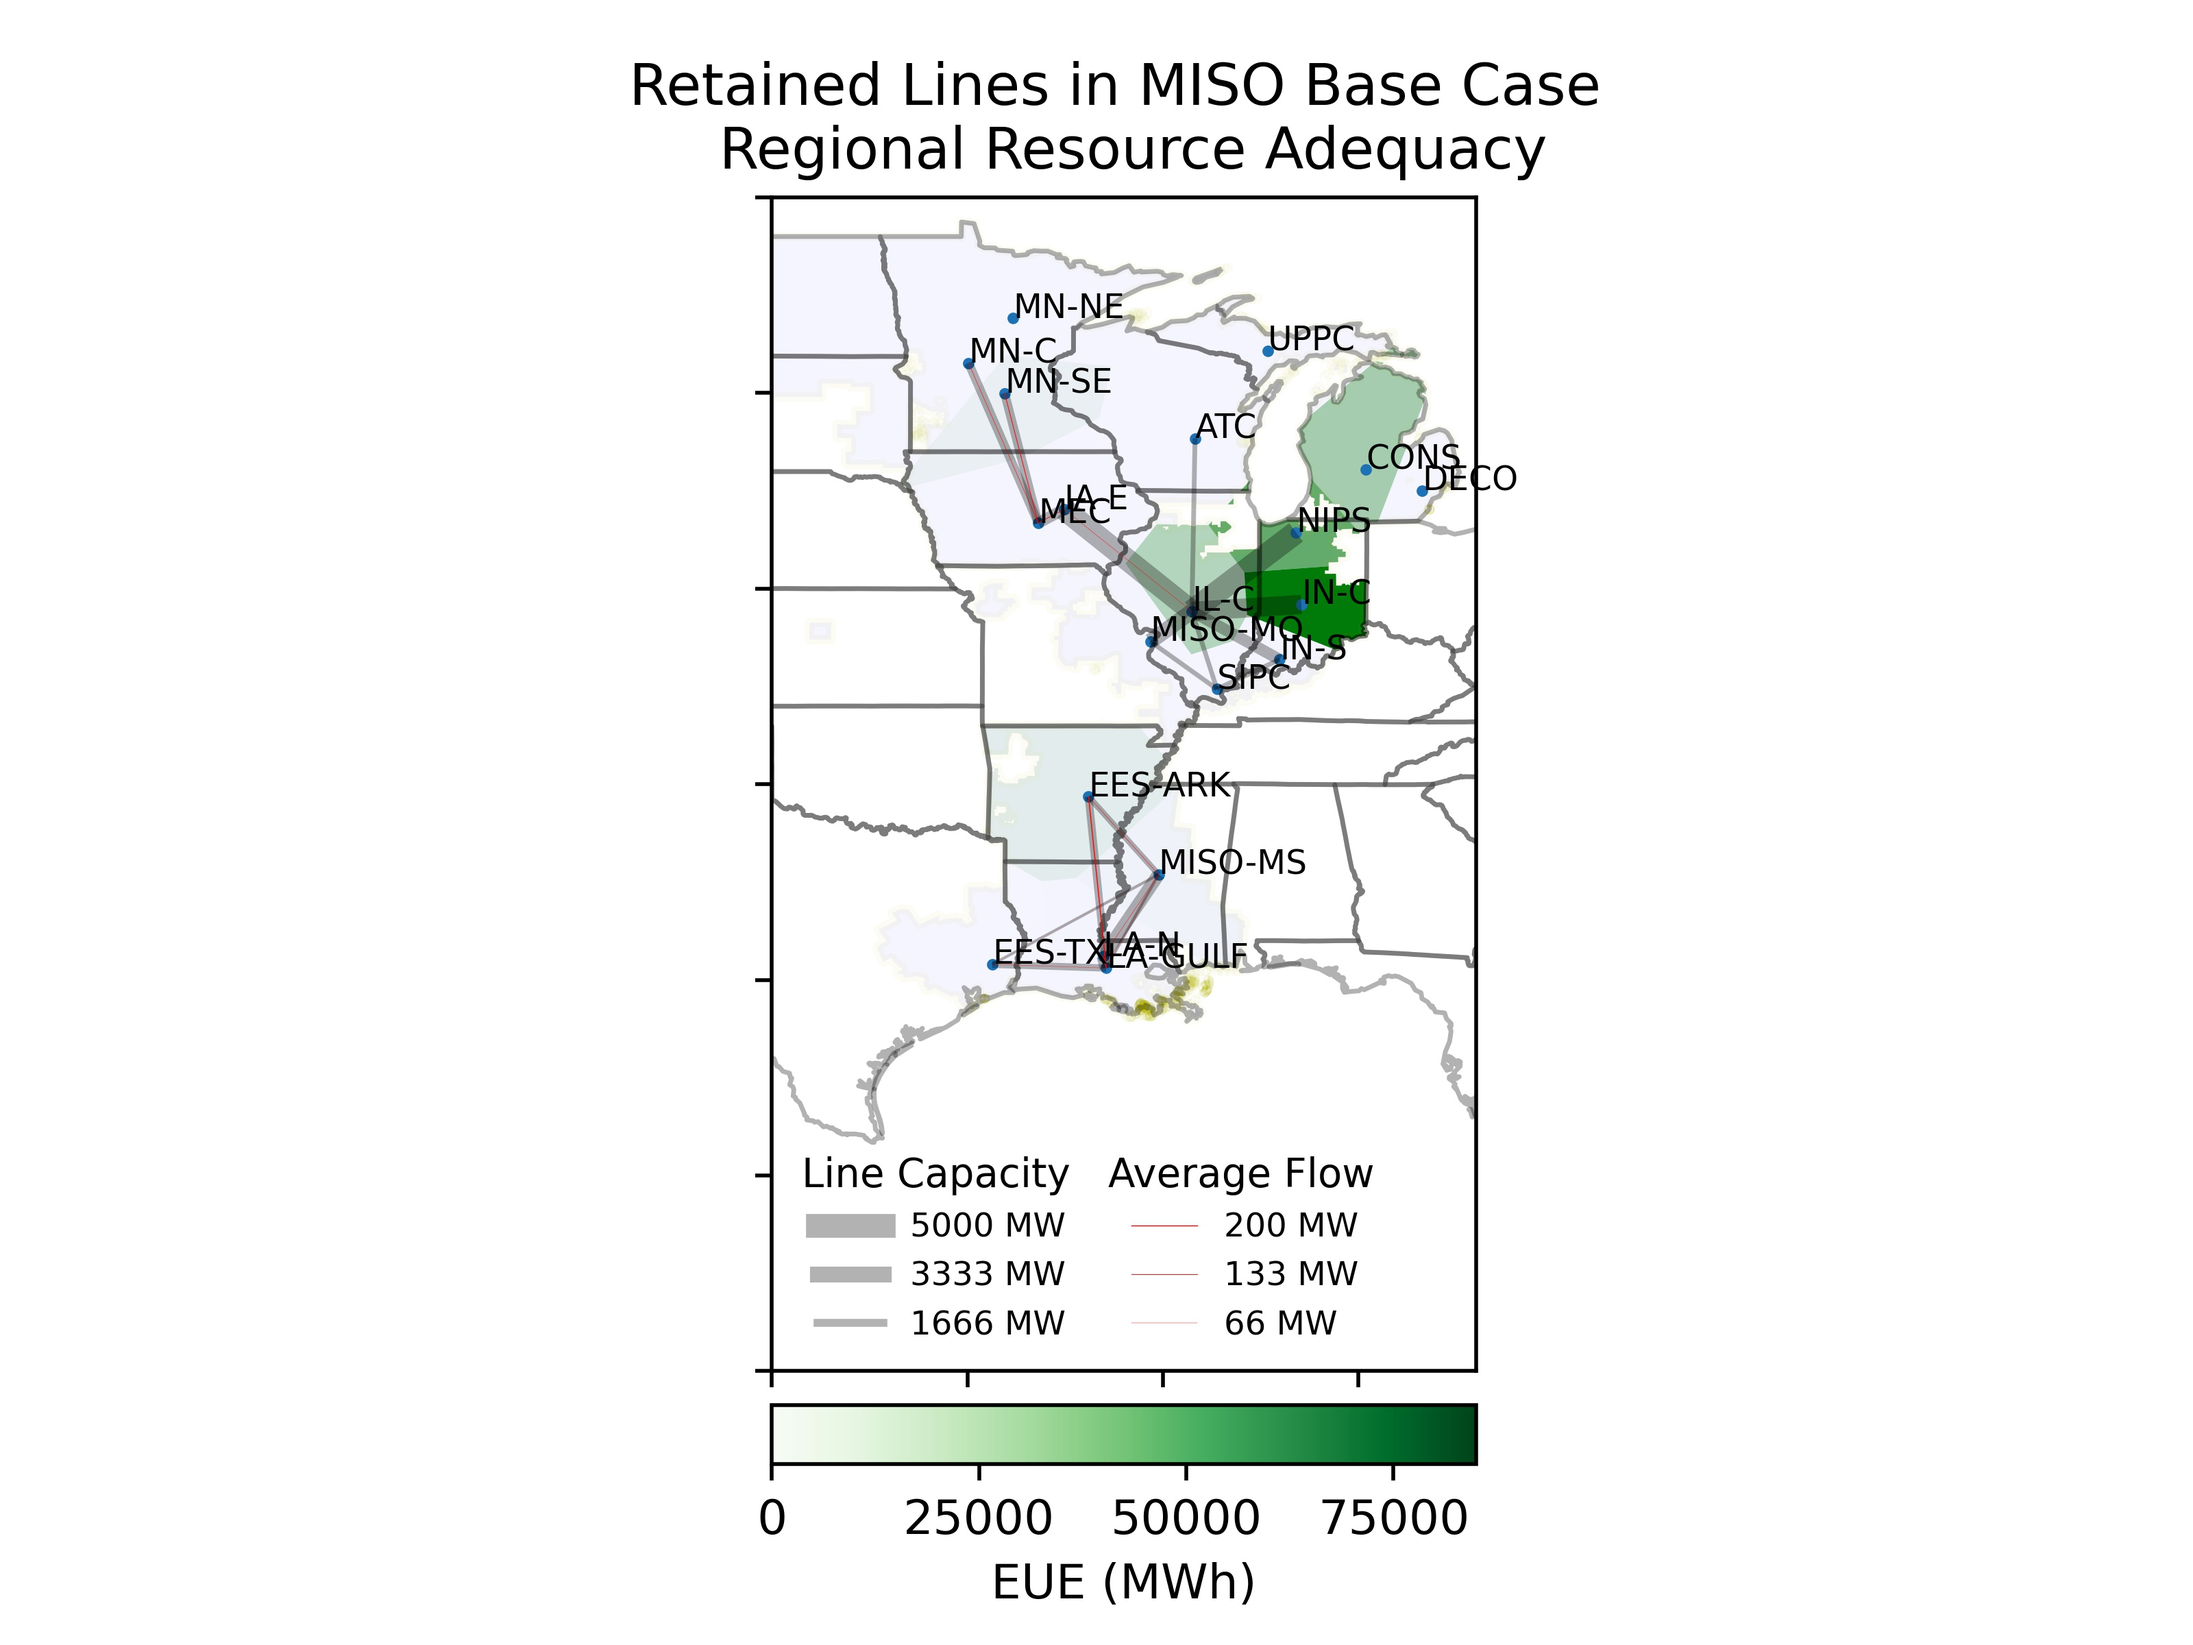
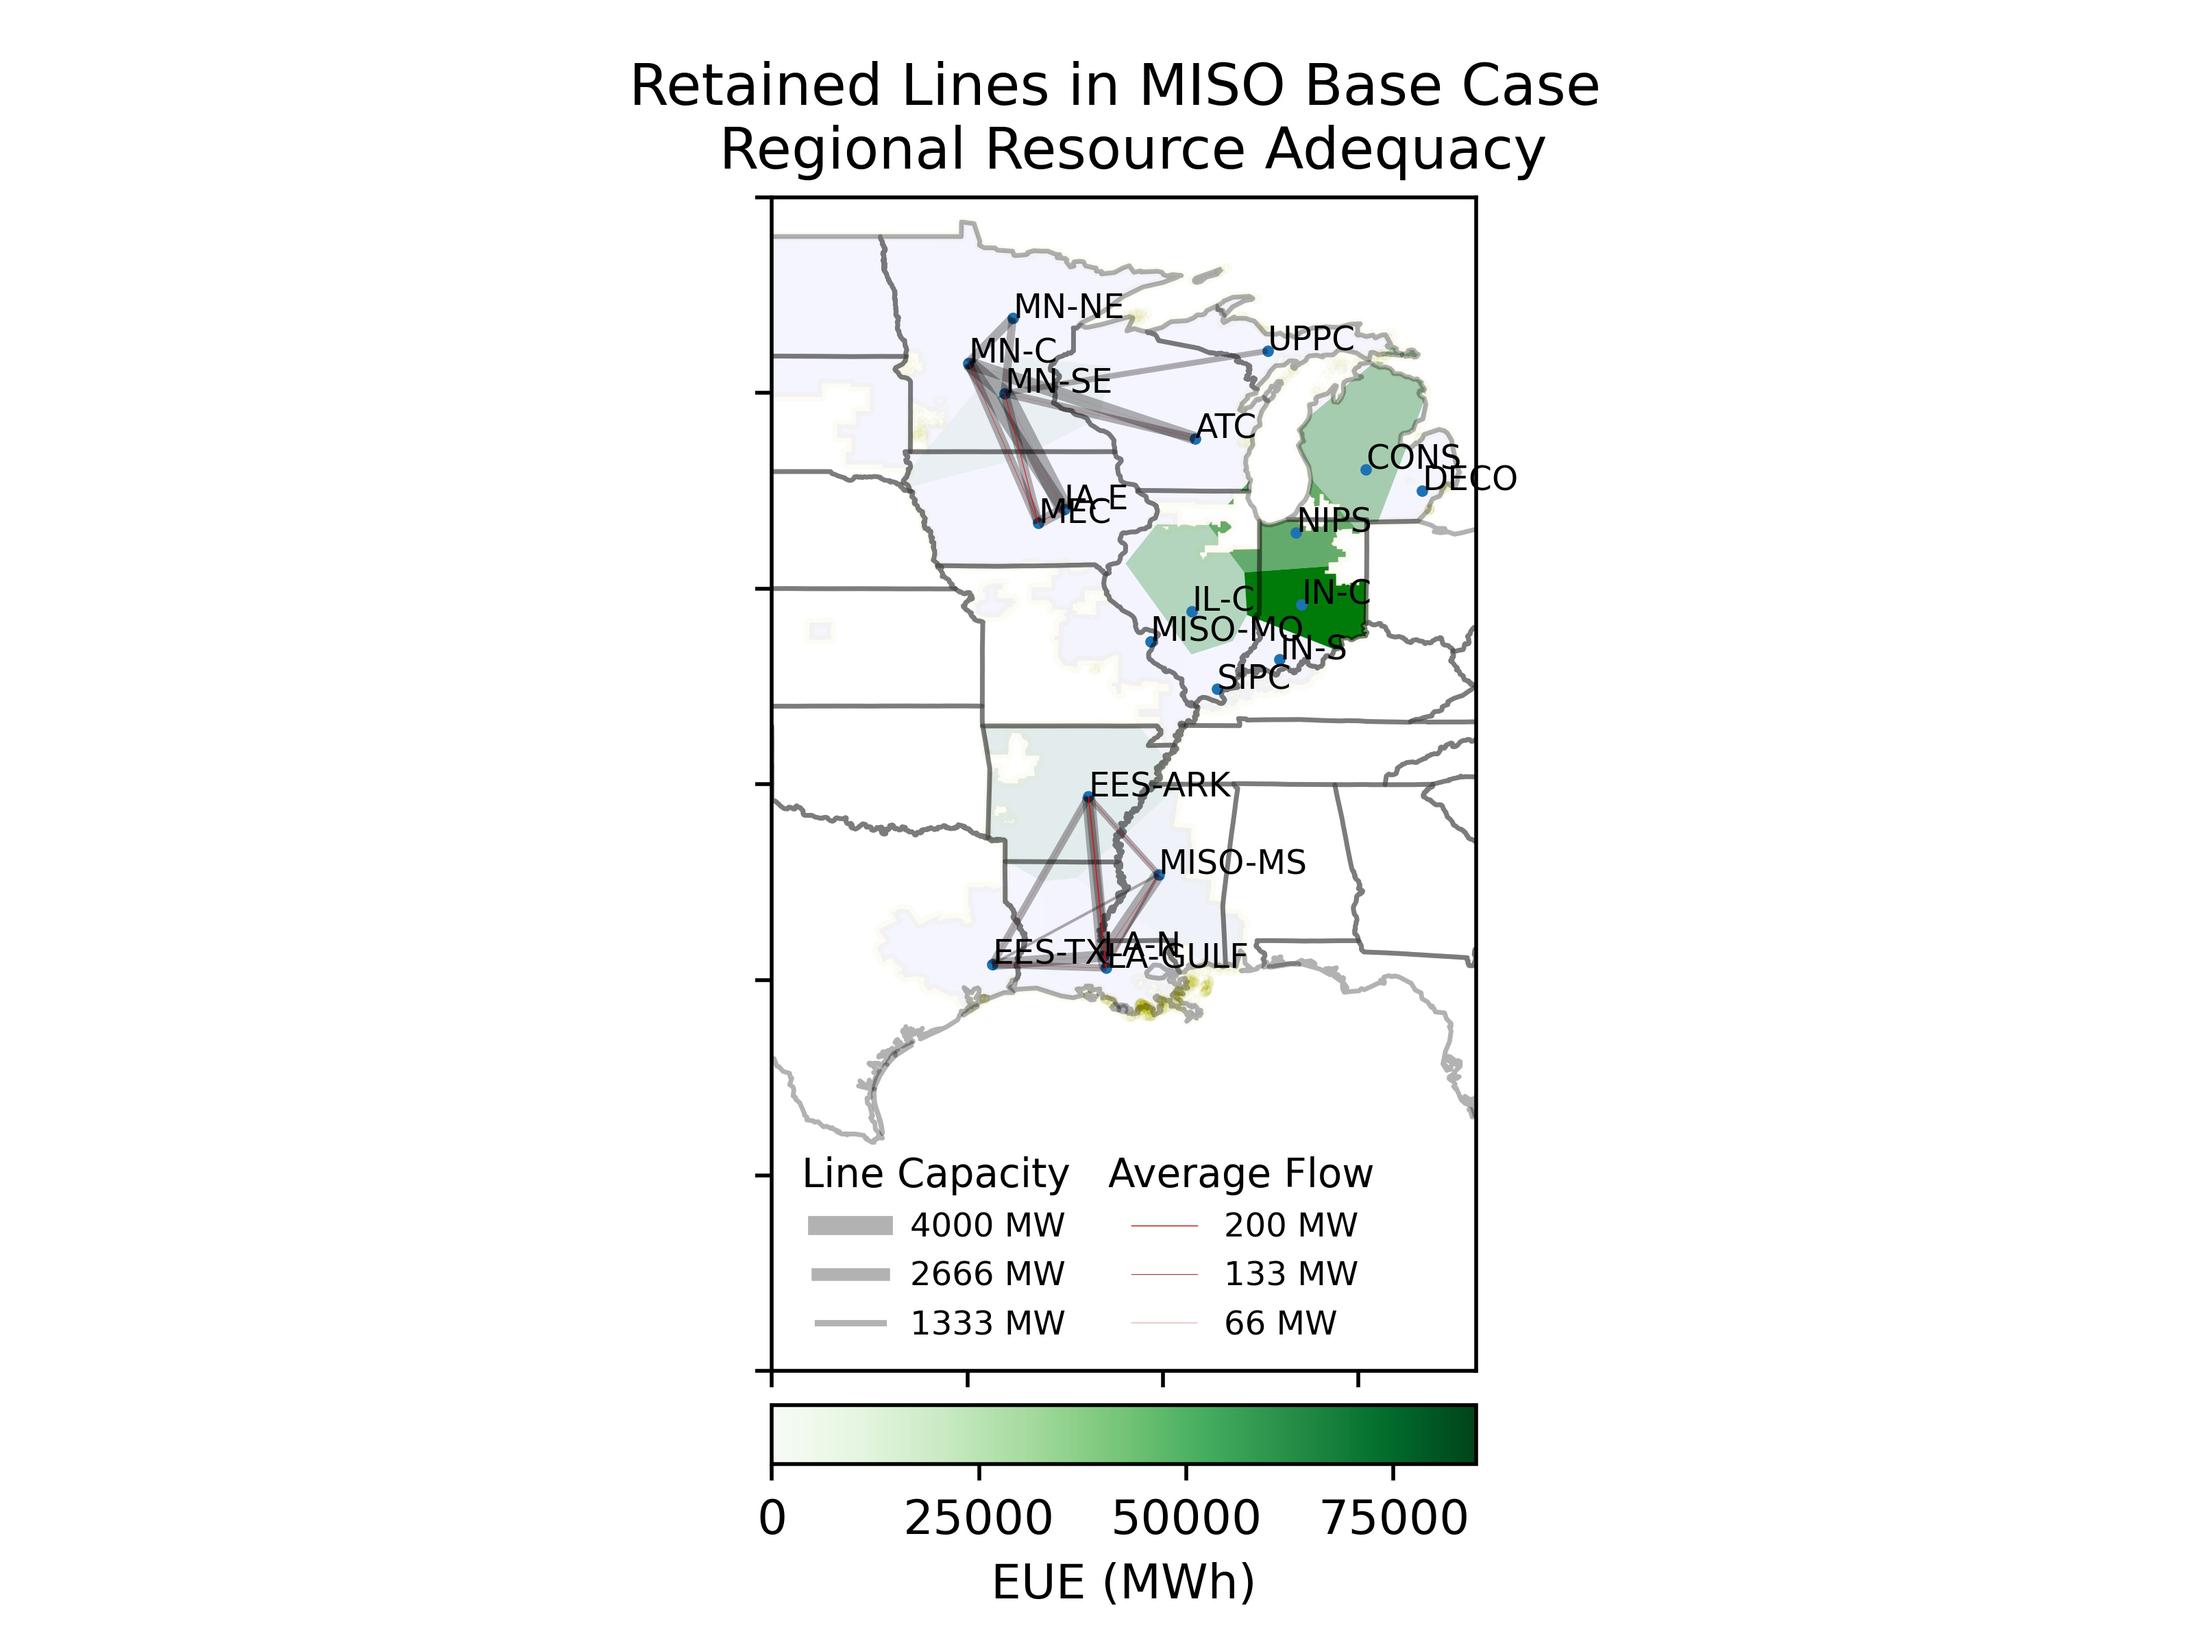
editpostprocessscript

diff --git a/results/post_processing_figures.py b/results/post_processing_figures.py
@@ -97,10 +97,12 @@ class plotter(object):
         #print(busID)
         del self.miso_loads[zone]
         self.miso_map.drop(idx,inplace=True)
+        self.miso_map.reset_index(inplace=True)
         self.miso_tx.drop(self.miso_tx[self.miso_tx['From']==float(busID)].index,inplace=True)
         self.miso_tx.drop(self.miso_tx[self.miso_tx['To']==float(busID)].index,inplace=True)
         self.miso_tx.reset_index(inplace=True)
         self.miso_bus_zone.drop(self.miso_bus_zone[self.miso_bus_zone['Seams Region']==zone].index,inplace=True)
+        self.miso_bus_zone.reset_index(inplace=True)
         return None
 
     def format_data(self):
@@ -374,12 +376,17 @@ class plotter(object):
             right_on="names",
         )
         self.gdf_merge = gdf_merge
+
+        #gdf_proj must be re-ordered
+        print(self.gdf_merge)
+        print(gdf_proj)
+
         line_gdf = self.create_lines(line_attribute, month=months, hour=hours)
         labs = list(gdf_merge["Seams_Region"])
         attribute_max = gdf_merge[attribute].max()
         boundary.geometry = boundary.geometry.buffer(0)
         boundary_shape = cascaded_union(boundary.geometry)
-        coords = points_to_coords(gdf_proj.geometry)
+        coords = points_to_coords(gdf_merge.geometry)
         poly_shapes, pts,poly_to_pt_assignments = voronoi_regions_from_coords(
             coords, boundary_shape
         )
@@ -415,9 +422,9 @@ class plotter(object):
             plot_points(
                 myaxes, pts, 2, labels=labs, alpha=0.0, label_fontsize=16
             )  # mostly just adds the zonal labels
+        
         elif plot_type == "fills":
             for i, s in enumerate(poly_shapes):
-                #print(i,s)
                 plot_voronoi_polys(
                     myaxes,
                     s,
@@ -442,20 +449,27 @@ class plotter(object):
             )  # mostly just adds the zonal labels
         else:
             raise ValueError("plot_type must be either fills or bubbles")
-
+        
+        #decide which zones to exclude
+        mymax = max(gdf_merge.EUE)*.01
+        myindices = list(gdf_merge[gdf_merge['EUE']>=mymax].index)
+        zone_names = list(gdf_merge.names[gdf_merge.index.isin(myindices)])
+        #print(gdf_merge.names)
         # subset line gdf, if desired, to get rid of lines without flows
+        #["AECIZ", "LA-GULF", "MEC", "SIPC", "IL-C", "MISO-MS"]
+        print(zone_names)
         if subset_lines:
             fromindices = list(
                 line_gdf.index[
                     line_gdf.from_name.isin(
-                        ["AECIZ", "LA-GULF", "MEC", "SIPC", "IL-C", "MISO-MS"]
+                    zone_names
                     )
                 ]
             )
             toindices = list(
                 line_gdf.index[
                     line_gdf.to_name.isin(
-                        ["AECIZ", "LA-GULF", "MEC", "SIPC", "IL-C", "MISO-MS"]
+                        zone_names
                     )
                 ]
             )
@@ -909,8 +923,8 @@ class plotter(object):
             [str(int(cap_1)) + " MW", str(int(cap_2)) + " MW", str(int(cap_3)) + " MW"],
             loc="lower left",
             title="Line Capacity",
-            fontsize="large",
-            title_fontsize="large",
+            fontsize="medium",
+            title_fontsize="medium",
             frameon=False,
             ncol=2,
         )

diff --git a/MISO_data_main.py b/MISO_data_main.py
@@ -40,12 +40,12 @@ re_penetration = "0.4"
 profile_year = 2012
 NREL = False
 NREL_year, NREL_profile = 2040, "EFSLoadProfile_Reference_Moderate"
-pras_filename = "VRE0.4_wind_2012base100%_8760_25%tx_18%IRM_0GWstorage_addgulfsolar"
+pras_filename = "VRE0.4_wind_2012base100%_8760_150%tx_18%IRM_0GWstorage_addgulfsolar"
 load_scalar = 1  # how much to scale resulting load profile by... 1 should be default
 target_IRM = 0.18  # as a fraction
 use_target_IRM = True  #
 storage_capacity = 0  # total storage capacity, in MW
-scale_transmission_capacity = .25  # rescales transmission capacities between zones
+scale_transmission_capacity = 1.5  # rescales transmission capacities between zones
 # fliename convention is VREscenario_REscenario_year_hoursused_txmodifier_RMmodifier_storage
 
 folder = "PRAS3.12.21"  # whatever you name your folder when pulled from Github
